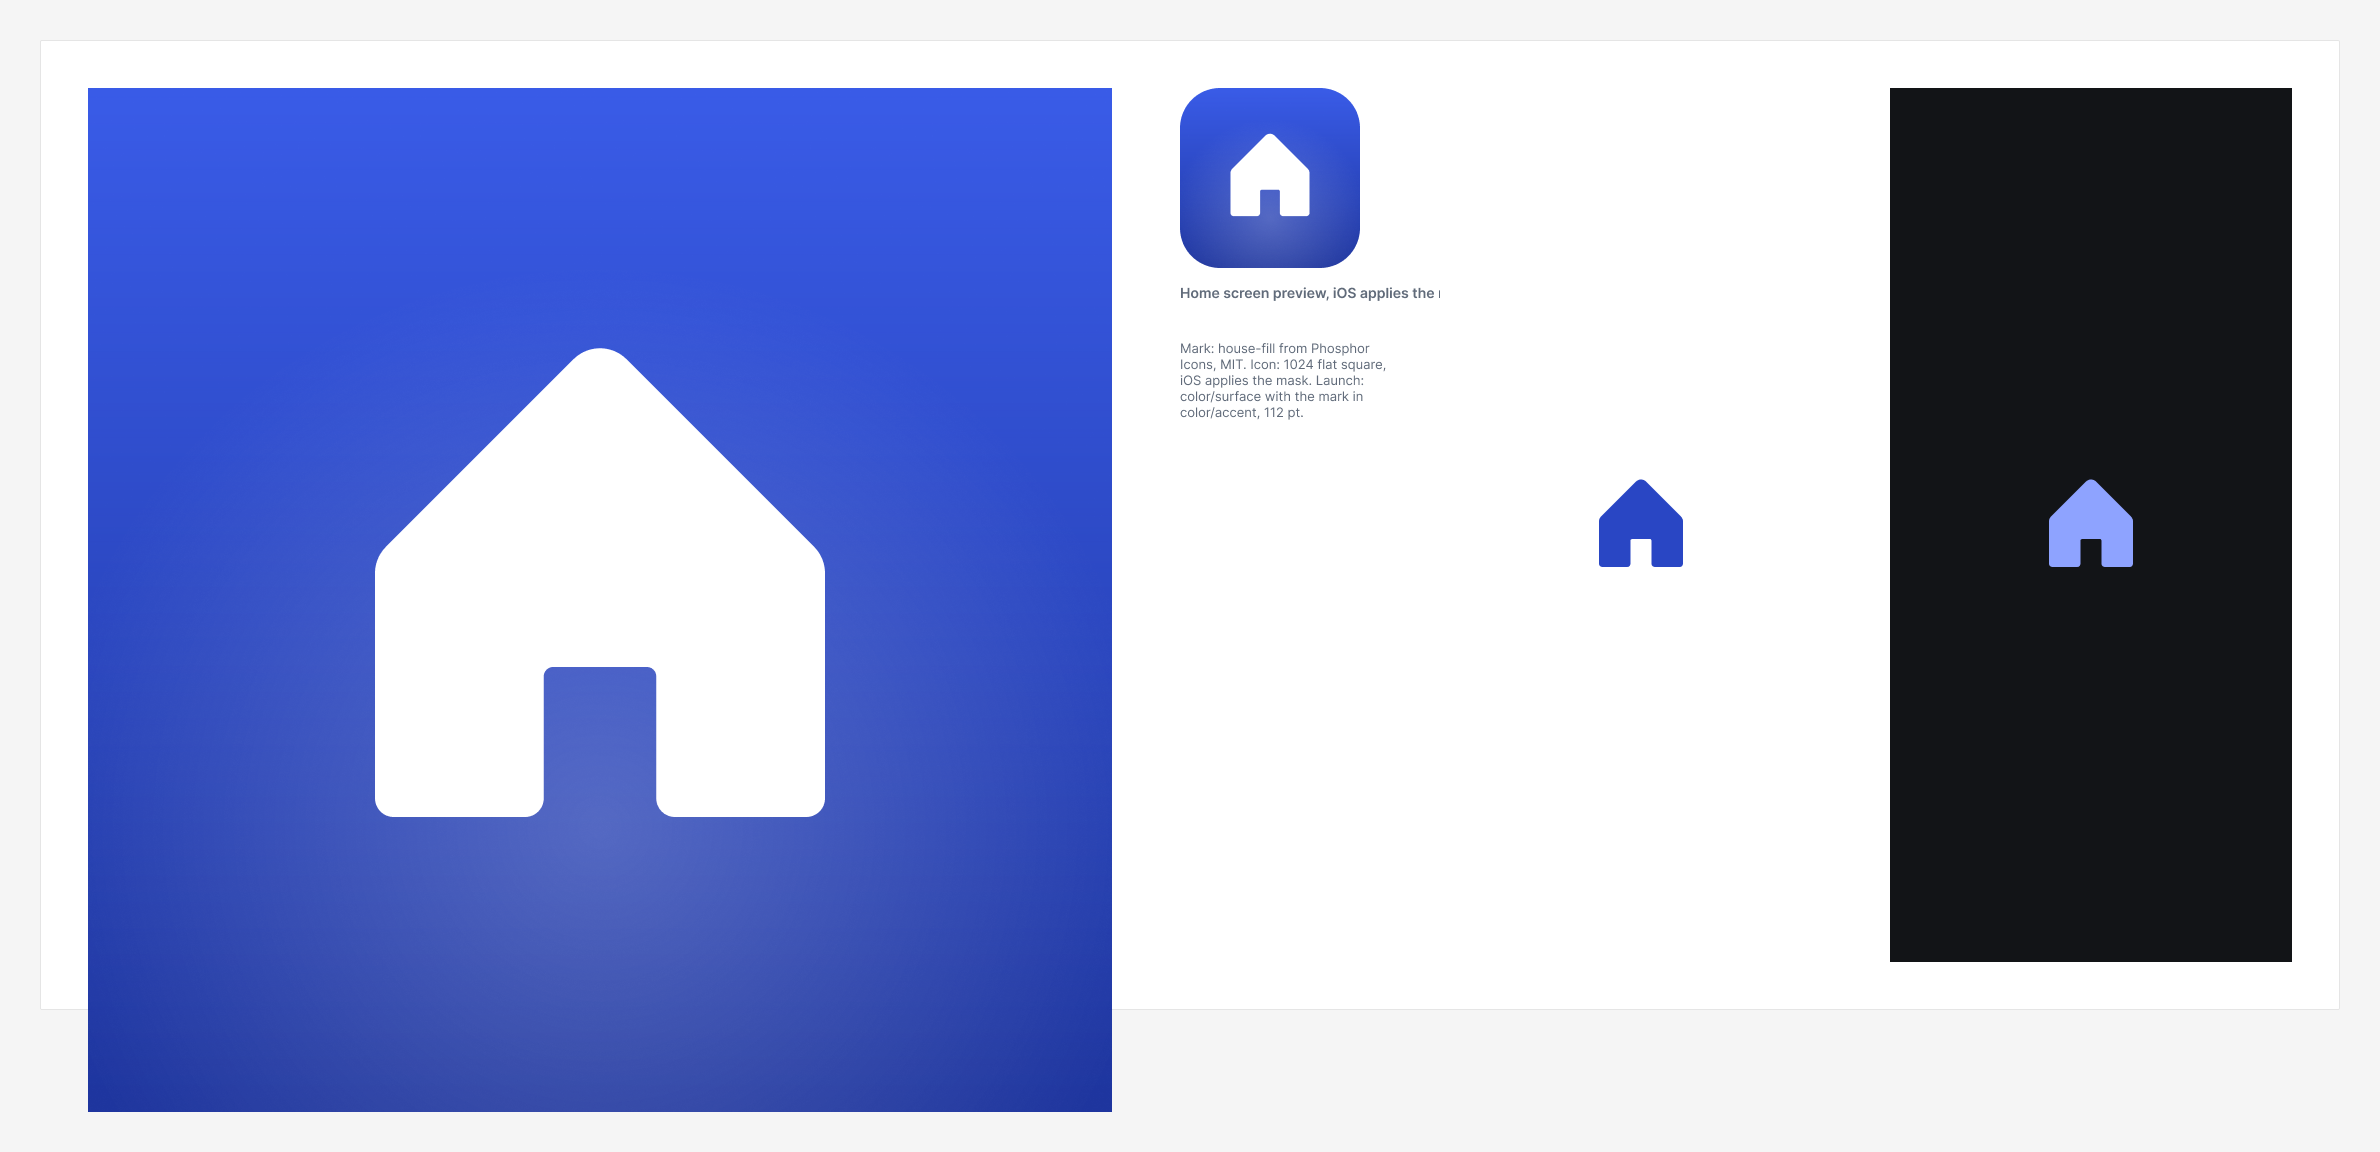
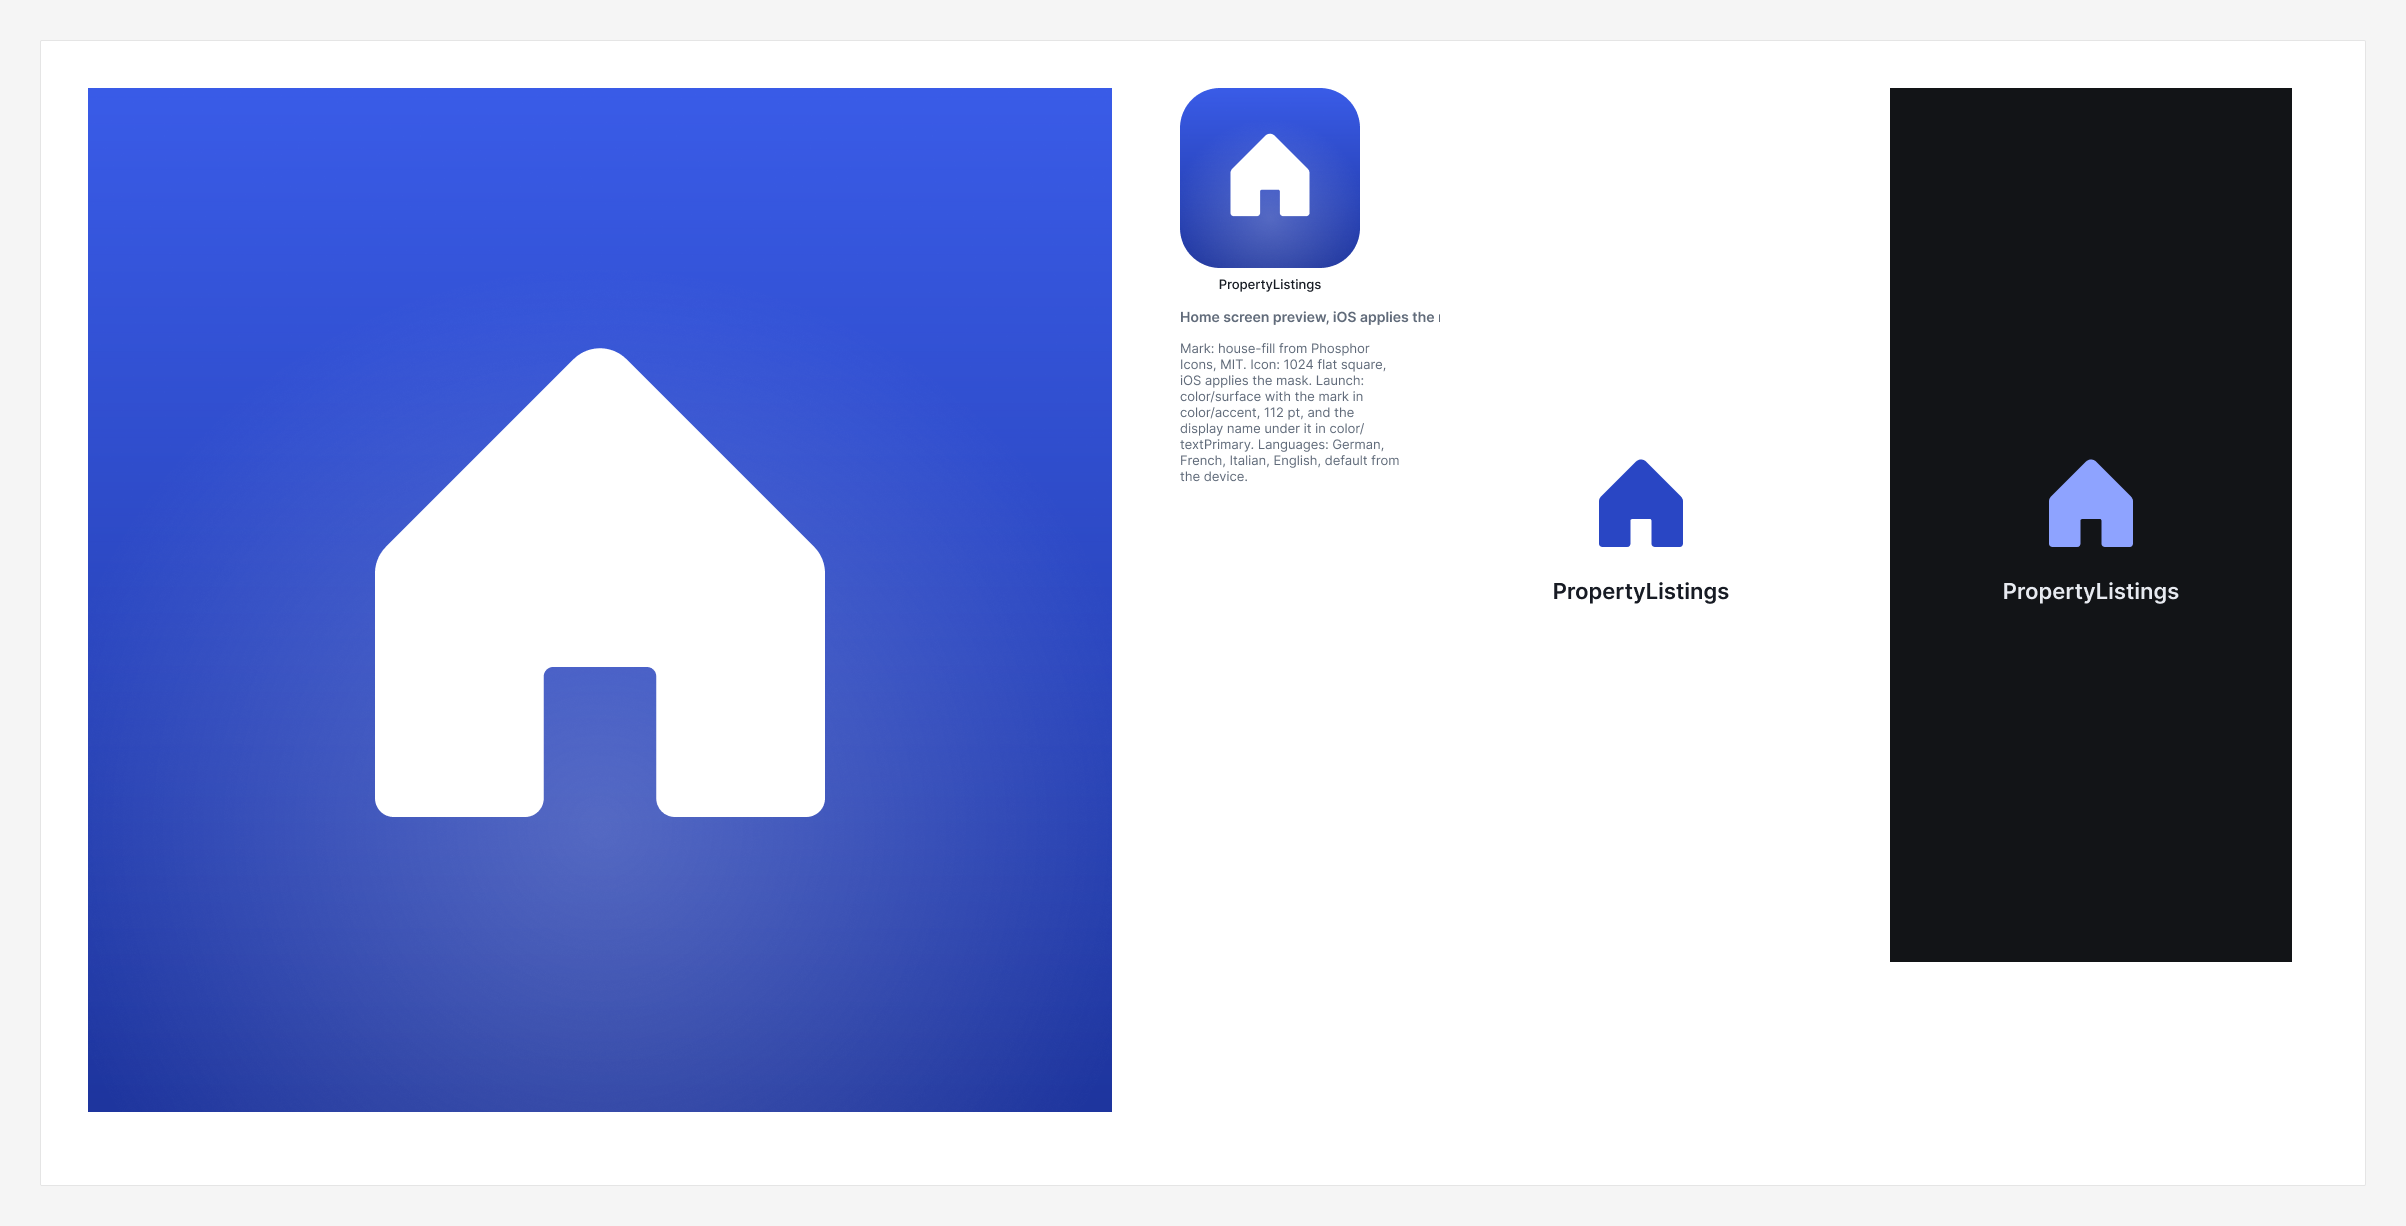
Design the Lakeside brand and export its tokens

diff --git a/docs/design/design-system.md b/docs/design/design-system.md
@@ -47,7 +47,7 @@ into the asset catalog; names never change.
 | `PriceTag` | Amount, OnRequest | inside `ListingCard`, text from `PriceFormatter` |
 | `StateView` | Empty, Error | `EmptyStateView`, `ErrorStateView` |
 | `SkeletonRow` | one | `SkeletonRow().shimmering()` |
-| `TabBar` | Listings, Saved, Settings | `TabView` in `RootView`, driven by `AppRouter` |
+| `TabBar` | Brand PropertyListings or Lakeside, Selected Listings, Saved or Settings | `TabView` in `RootView`, driven by `AppRouter` |
 
 Card anatomy: 3:2 image with `radius/l` corners, `PriceTag` bottom leading, `LikeButton` top trailing on a
 thin material disc, title on two lines in `DSFont/title`, address on one line with a pin in `DSFont/caption`.
@@ -59,11 +59,70 @@ thin material disc, title on two lines in `DSFont/title`, address on one line wi
 | Asset | Figma | Xcode |
 |---|---|---|
 | App icon | `Brand / App icon / 1024`, a flat square, iOS applies the mask | `AppIcon.appiconset`, one 1024 image with no alpha |
-| Launch screen | `Brand / Launch / Light` and `Launch / Dark`, `color/surface` with the mark in `color/accent` | `UILaunchScreen` with `LaunchBackground` and `LaunchMark`, both with a dark appearance |
+| Launch screen | `Brand / Launch / Light` and `Launch / Dark`, `color/surface` with the mark in `color/accent` and the display name under it | `UILaunchScreen` with `LaunchBackground` and `LaunchMark`, both with a dark appearance. A plist launch screen shows one image and one colour, so the name joins the mark as a lockup image when the brand work lands |
 | Accent | `color/accent` | `AccentColor` |
 
 The mark is `house-fill` from [Phosphor Icons](https://phosphoricons.com), MIT licensed. It ships as an SVG
 asset with its vector representation preserved, so the launch screen renders it at any scale.
+
+## Brands
+
+![Lakeside](screens-lakeside.png)
+
+Colour has two dimensions in the file: the brand and the appearance. A `Brand` collection holds one
+mode per brand, `PropertyListings` and `Lakeside`, and fourteen primitives, a light and a dark value
+for each semantic name, `brand/accent/light`, `brand/accent/dark` and so on. The `Color` collection
+keeps its `Light` and `Dark` modes, and every semantic variable now aliases the matching primitive:
+`color/accent` in Light is `brand/accent/light`, in Dark `brand/accent/dark`. A frame picks a brand
+mode and an appearance mode independently, and every component follows without a change, because
+components only ever name the semantic variable.
+
+| Semantic name | PropertyListings light, dark | Lakeside light, dark | Swift |
+|---|---|---|---|
+| `surface` | #FFFFFF, #121417 | #FFFFFF, #10161A | `DSColor.surface` |
+| `surfaceElevated` | #F2F3F6, #1C2027 | #EEF4F3, #182126 | `DSColor.surfaceElevated` |
+| `textPrimary` | #171B24, #E7EAF0 | #14201E, #E4ECEA | `DSColor.textPrimary` |
+| `textSecondary` | #626B7A, #97A0B0 | #5C6D6A, #93A6A2 | `DSColor.textSecondary` |
+| `accent` | #2946C4, #8EA3FF | #0E7C86, #4FC3CC | `DSColor.accent` |
+| `like` | #D83A56, #FF6B81 | #D9542B, #FF8A65 | `DSColor.like` |
+| `onImage` | #FFFFFF, #FFFFFF | #FFFFFF, #FFFFFF | `DSColor.onImage` |
+
+The values are exported per brand under [tokens/](tokens/), one JSON file each, straight from the
+Figma collection. In the app a brand ships them as a colour catalog with the seven semantic names,
+each set carrying a light and a dark appearance, which is the file the export script will write.
+
+Radius has the same two modes, `PropertyListings` with 12 and 20 and `Lakeside` with 16 and 28, so a
+brand can be rounder without a component change.
+
+Lakeside is a fictional second brand that exists to prove the mechanism. Everything a brand can
+change is shown on it:
+
+| What a brand changes | PropertyListings | Lakeside |
+|---|---|---|
+| Display name | PropertyListings | Lakeside |
+| Mark | house-fill, Phosphor | lighthouse-fill, Phosphor |
+| Icon | the house on a blue gradient | the lighthouse on a teal gradient |
+| Launch screen | the mark over `surface`, the display name under it | the same lockup with the Lakeside mark and name |
+| Colours | the palette above | the palette above |
+| Typeface | Inter, standing in for SF Pro | Manrope |
+| Radii | 12 and 20 | 16 and 28 |
+| Tabs | Listings, Saved, Settings | Listings, Settings, no Saved |
+| Tab icons | house, heart, sliders, the SF Symbols | lighthouse and gear-six, Phosphor, fill when selected |
+| Default language and languages offered | the device language; German, French, Italian, English | English; English, Vietnamese |
+| Wording override | none | the Listings title reads Homes, Nhà in Vietnamese |
+| Listings source | the sample endpoint, nine listings | its own mock, eight lakeside listings, see below |
+
+The cache validity, the page size and the debounces differ per brand as well; they are
+configuration and do not show on a screen.
+
+The Lakeside listings come from a mock the repository serves itself: [docs/mock/lakeside/properties](../mock/lakeside/properties)
+is a JSON document in the same shape as the sample endpoint, reachable at
+`https://raw.githubusercontent.com/anthony1810/PropertyListings/main/docs/mock/lakeside` as the base
+URL. Raw GitHub ignores the `from` and `size` query items, so the existing endpoint and mapper read it
+unchanged, and the brand only swaps its base URL. The Figma cards show the first three of its
+listings.
+
+![Lakeside brand](brand-lakeside.png)
 
 ## Screens
 
